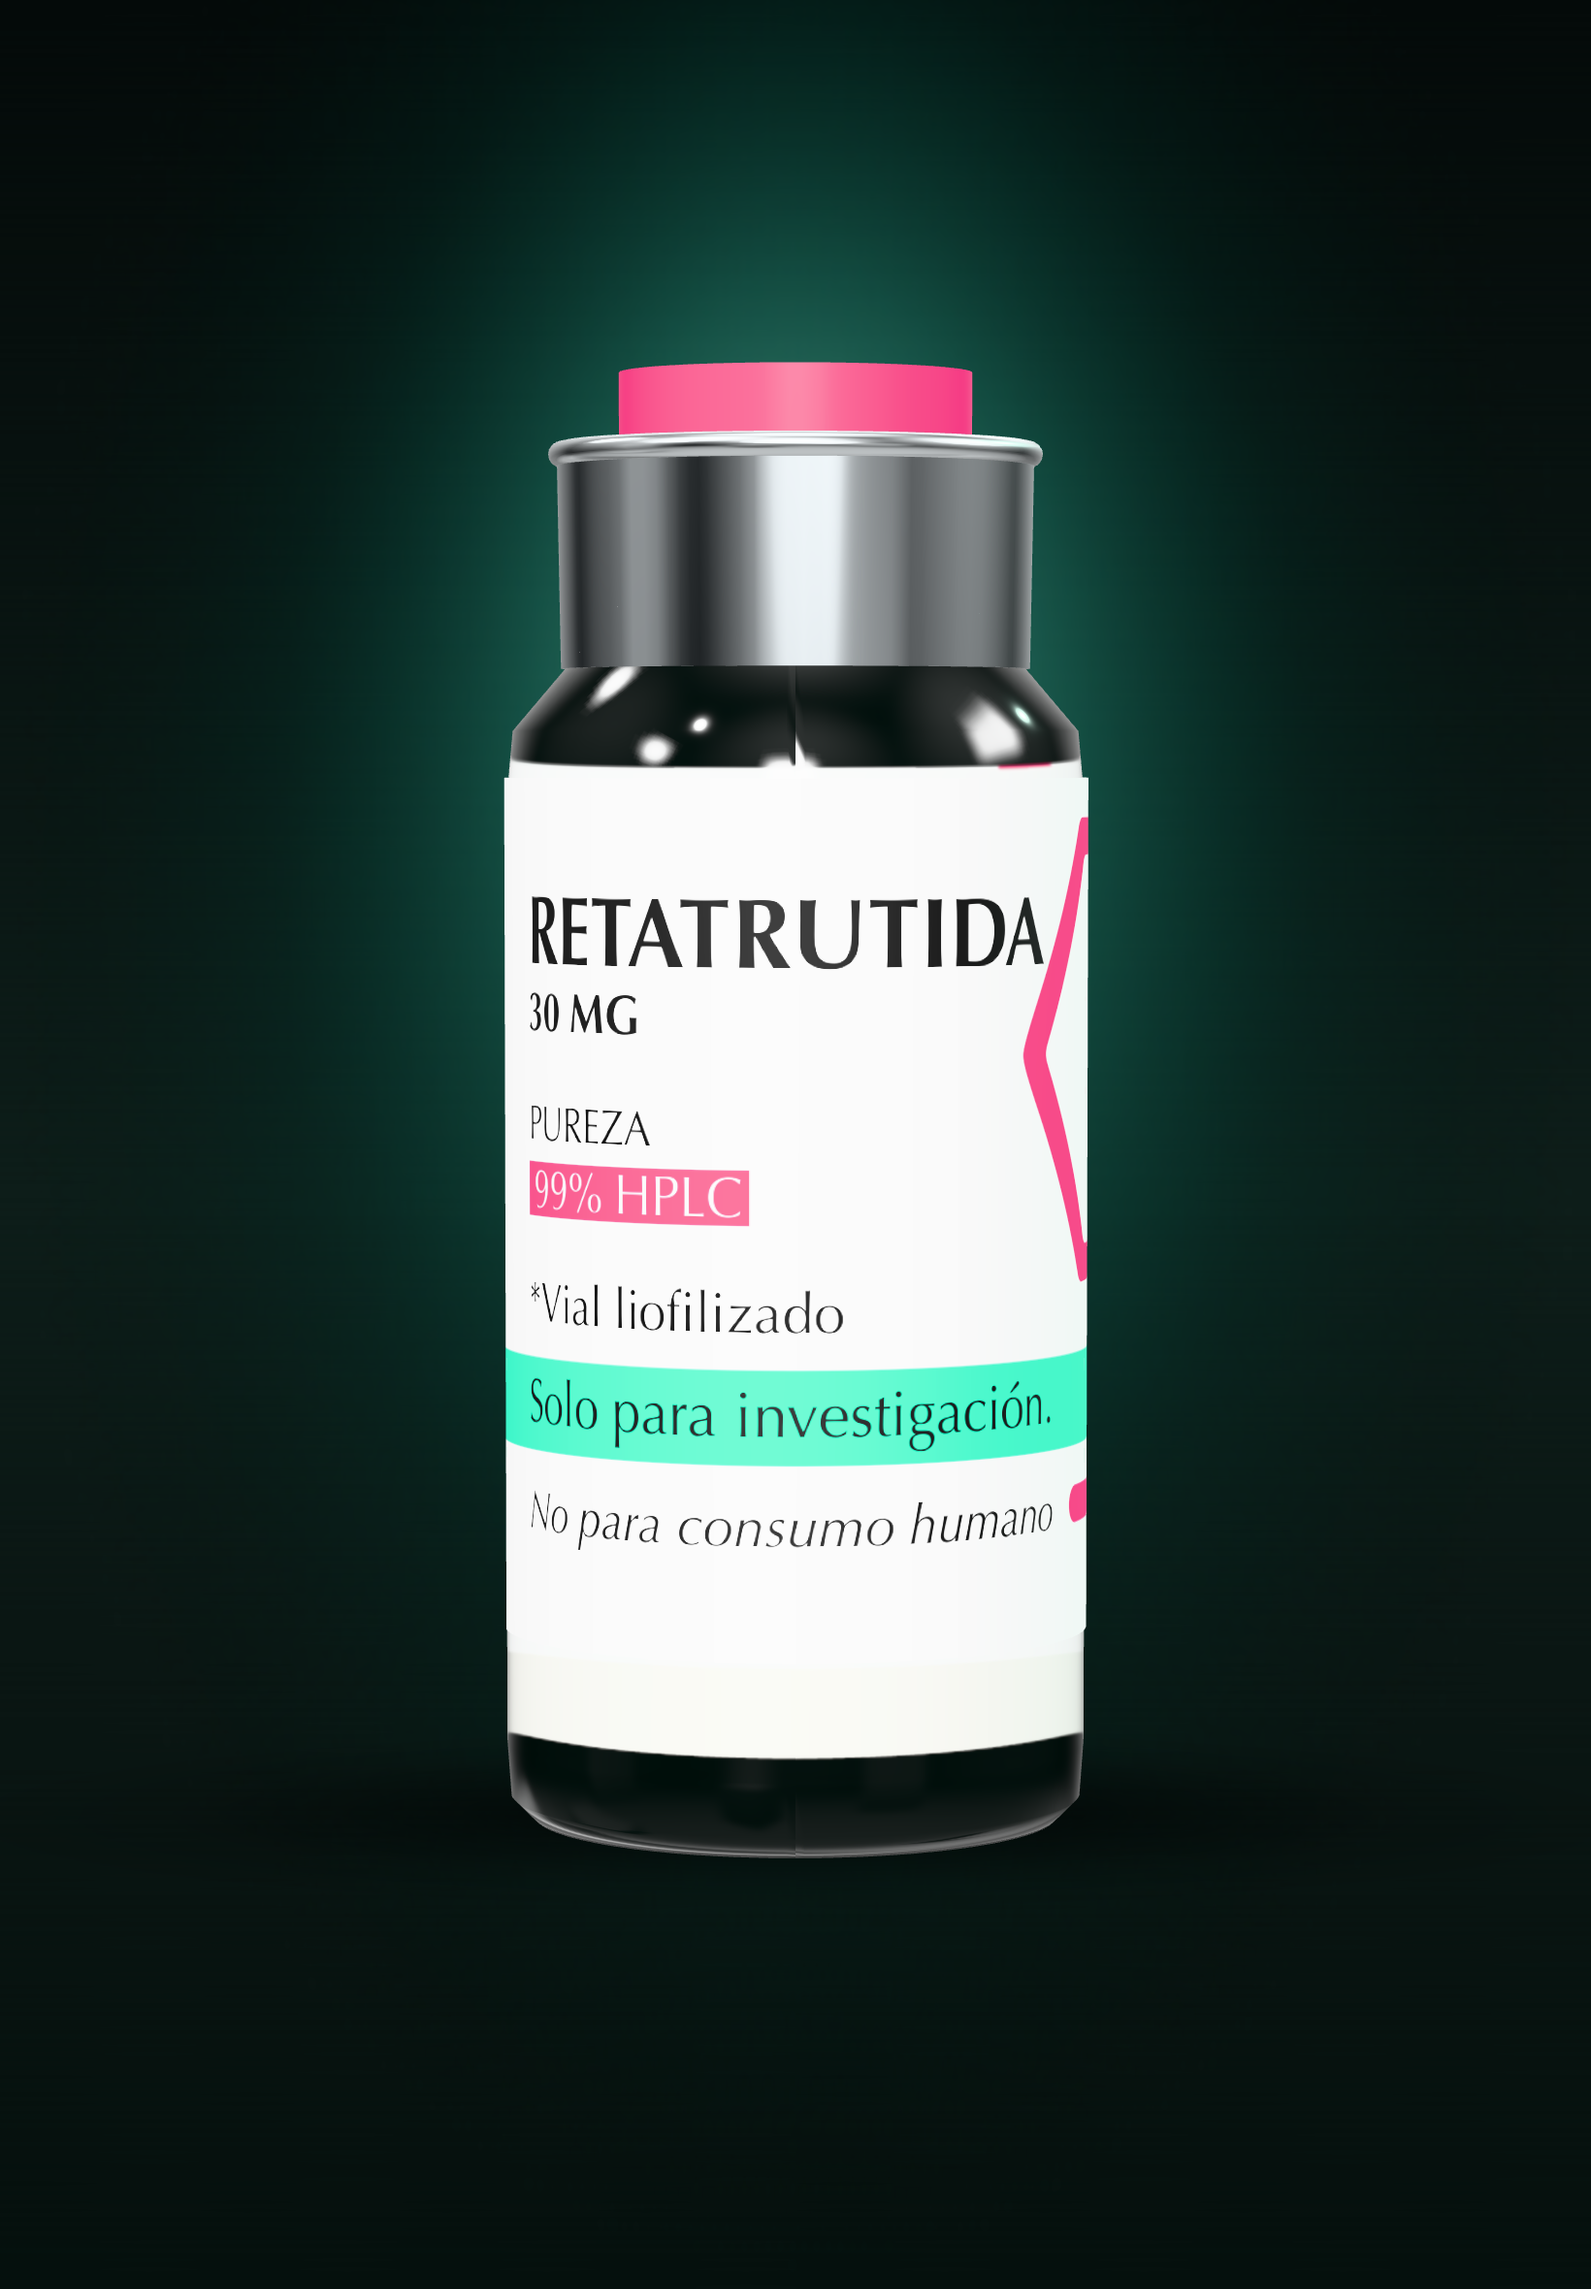
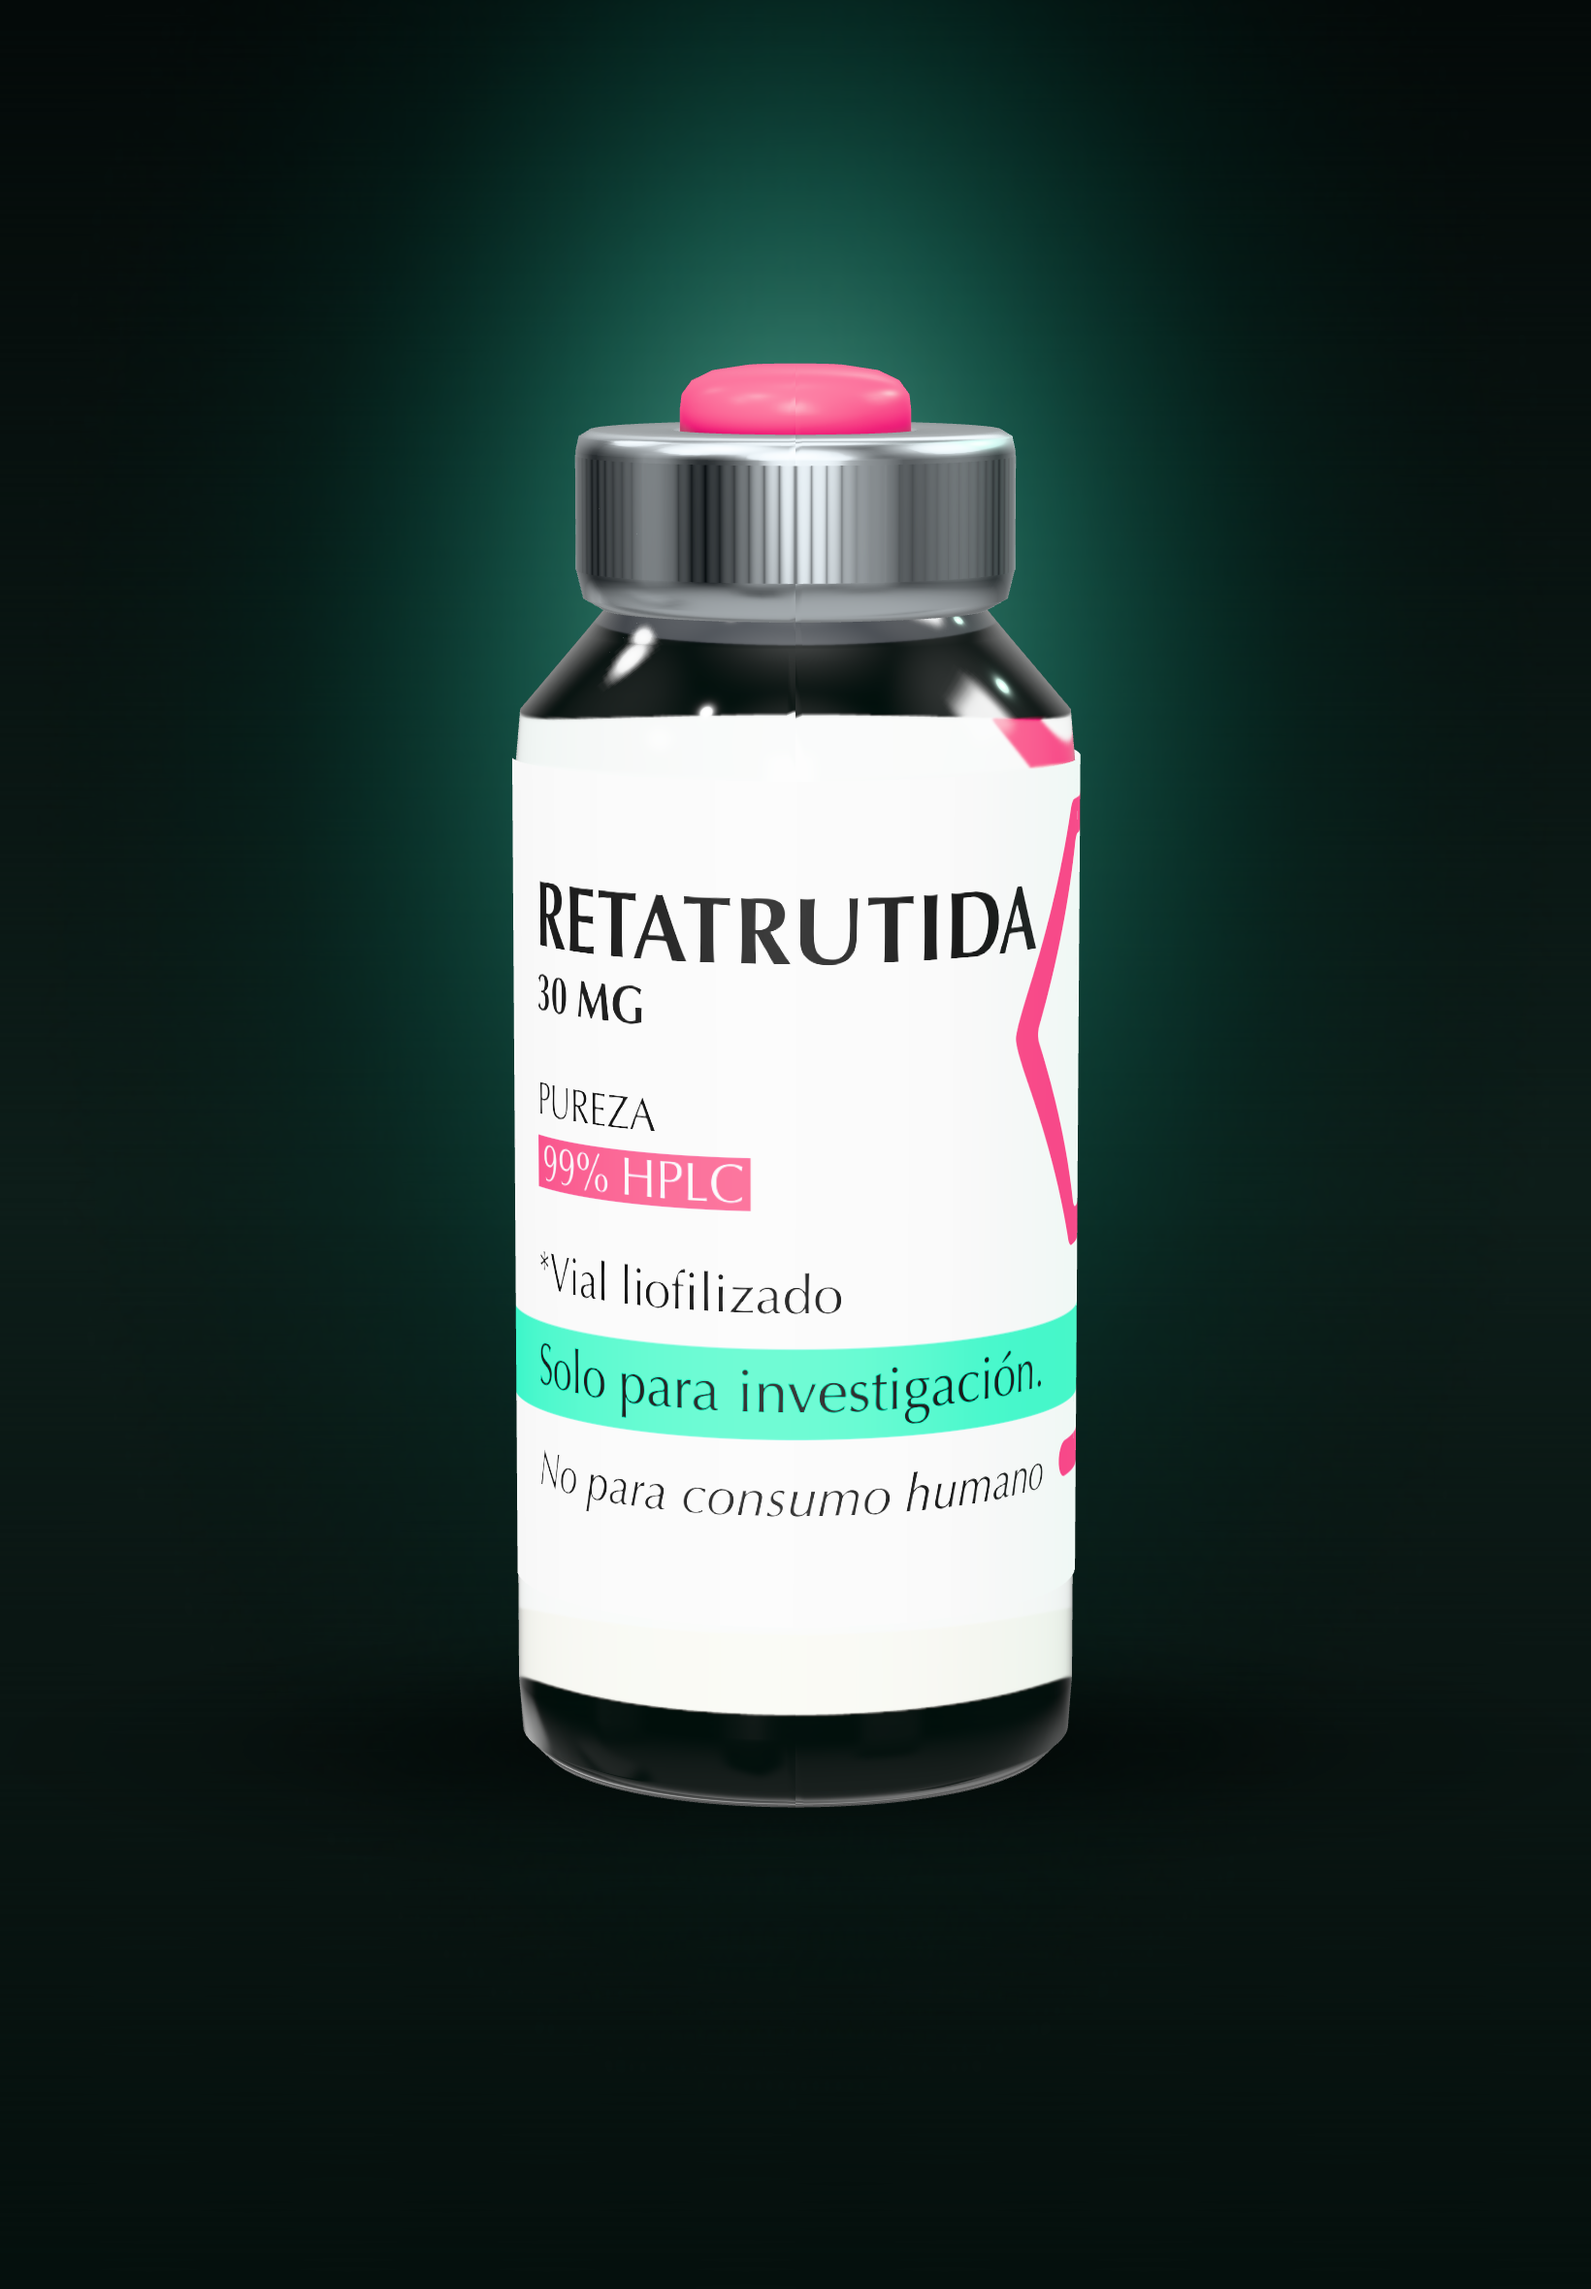
fix(mocks): la tapa del vial tenía la anatomía y el ángulo mal
El flip-off era un disco plano casi tan ancho como el engaste, con un aro
suelto flotando encima: leía como tapa de frasco. Se remodela con la anatomía
real de un sello de 20 mm, torneado con su perfil: corona plana con hueco
central, falda con estrías finas por roughnessMap y rizo por debajo de la
pestaña de vidrio. El botón de plástico pasa a estrecho y abombado, dejando
el anillo de aluminio visible alrededor.

El fallo de fondo no era el modelado sino la cámara: estaba a y=27.5 con la
tapa a y=37.3, o sea por debajo del sello, así que se veía el engaste desde
abajo y el botón quedaba escondido tras el borde. Sube a y=43.

Claude-Session: https://claude.ai/code/session_01WYKnPW9vsfA4iToczreM7S

Changed region(s): [[0.311, 0.1547, 0.6841, 0.8352]]

diff --git a/rediseno/mocks/generar-vial-3d.html b/rediseno/mocks/generar-vial-3d.html
@@ -33,8 +33,8 @@ const pmrem = new THREE.PMREMGenerator(renderer);
 scene.environment = pmrem.fromScene(new RoomEnvironment(), 0.04).texture;
 
 const camera = new THREE.PerspectiveCamera(20, W / H, 1, 1000);
-camera.position.set(0, 27.5, 168);
-camera.lookAt(0, 17.5, 0);
+camera.position.set(0, 43, 172);
+camera.lookAt(0, 16.5, 0);
 
 // ── Perfil del vial 2R: pared de 1.1 mm y fondo de 2.6 mm, torneado con lathe.
 // Modelar la pared interior de verdad es lo que da refracción creíble; con un
@@ -82,26 +82,69 @@ cake.visible = true; scene.add(cake);
 const stop = new THREE.Mesh(
   new THREE.CylinderGeometry(4.2, 4.2, 5.4, 64),
   new THREE.MeshStandardMaterial({ color: 0x35383d, roughness: 0.82, metalness: 0 }));
-stop.position.y = 32.2;
+stop.position.y = 32.4;
 stop.visible = true; scene.add(stop);
 
-// ── Sello de aluminio engastado
-const crimp = new THREE.Mesh(
-  new THREE.CylinderGeometry(6.15, 6.05, 5.6, 128),
-  new THREE.MeshStandardMaterial({ color: 0xcfd5d8, metalness: 1, roughness: 0.23, envMapIntensity: 1.4 }));
-crimp.position.y = 32.6;
-crimp.visible = true; scene.add(crimp);
-const ring = new THREE.Mesh(
-  new THREE.TorusGeometry(6.05, 0.32, 16, 128),
-  new THREE.MeshStandardMaterial({ color: 0xe4e9eb, metalness: 1, roughness: 0.18 }));
-ring.rotation.x = Math.PI / 2; ring.position.y = 35.3; scene.add(ring);
+// ── Sello de aluminio engastado (20 mm), torneado con su perfil real:
+// corona plana con hueco central, falda con estrías y rizo por debajo de la
+// pestaña de vidrio. El disco plano anterior parecía tapa de frasco.
+const RB = 3.05;          // radio del botón flip-off
+const sealPts = [
+  new THREE.Vector2(RB,        35.42),   // borde interior de la corona
+  new THREE.Vector2(RB + 0.22, 35.58),   // labio alrededor del hueco
+  new THREE.Vector2(5.42,      35.58),   // corona plana
+  new THREE.Vector2(5.72,      35.40),   // canto redondeado
+  new THREE.Vector2(5.80,      35.02),
+  new THREE.Vector2(5.80,      31.90),   // falda
+  new THREE.Vector2(5.62,      31.16),   // rizo bajo la pestaña
+  new THREE.Vector2(5.10,      30.86),
+  new THREE.Vector2(4.72,      30.96),
+];
+const sealGeo = new THREE.LatheGeometry(sealPts, 192);
+sealGeo.computeVertexNormals();
+const seal = new THREE.Mesh(sealGeo, new THREE.MeshStandardMaterial({
+  color: 0xc9d0d4, metalness: 1, roughness: 0.26,
+  side: THREE.DoubleSide, envMapIntensity: 1.35,
+}));
+scene.add(seal);
 
-// ── Flip-off magenta de marca
-const flip = new THREE.Mesh(
-  new THREE.CylinderGeometry(4.55, 4.55, 2.2, 96),
-  new THREE.MeshStandardMaterial({ color: 0xff047e, roughness: 0.36, metalness: 0.05, envMapIntensity: 1.1 }));
-flip.position.y = 36.3;
-flip.visible = true; scene.add(flip);
+// Estrías del engaste: finas y solo en la falda, como las deja la crimpadora
+const ridgeCan = document.createElement('canvas'); ridgeCan.width = 1024; ridgeCan.height = 4;
+const rCtx = ridgeCan.getContext('2d');
+for (let i = 0; i < 1024; i++) {
+  const v = 150 + Math.round(105 * Math.pow(Math.abs(Math.sin(i * Math.PI / 11)), 0.6));
+  rCtx.fillStyle = 'rgb(' + v + ',' + v + ',' + v + ')';
+  rCtx.fillRect(i, 0, 1, 4);
+}
+const ridgeTex = new THREE.CanvasTexture(ridgeCan);
+ridgeTex.wrapS = ridgeTex.wrapT = THREE.RepeatWrapping;
+const skirt = new THREE.Mesh(
+  new THREE.CylinderGeometry(5.81, 5.81, 3.0, 192, 1, true),
+  new THREE.MeshStandardMaterial({
+    color: 0xc4cbcf, metalness: 1, roughness: 0.3,
+    roughnessMap: ridgeTex, envMapIntensity: 1.3, side: THREE.DoubleSide,
+  }));
+skirt.position.y = 33.4;
+scene.add(skirt);
+
+// ── Flip-off: botón abombado y estrecho, no un disco del ancho del sello
+const flipPts = [
+  new THREE.Vector2(0.01, 37.30),
+  new THREE.Vector2(1.30, 37.26),
+  new THREE.Vector2(2.20, 37.12),
+  new THREE.Vector2(2.74, 36.86),
+  new THREE.Vector2(3.00, 36.50),
+  new THREE.Vector2(RB,   36.10),
+  new THREE.Vector2(RB,   35.30),
+  new THREE.Vector2(0.01, 35.30),
+];
+const flipGeo = new THREE.LatheGeometry(flipPts, 128);
+flipGeo.computeVertexNormals();
+const flip = new THREE.Mesh(flipGeo, new THREE.MeshStandardMaterial({
+  color: 0xff047e, roughness: 0.34, metalness: 0.0,
+  side: THREE.DoubleSide, envMapIntensity: 1.0,
+}));
+scene.add(flip);
 
 // ── Suelo y luces
 // Sin suelo: un plano iluminado por el entorno sale gris y parte la imagen.

diff --git a/rediseno/mocks/README.md b/rediseno/mocks/README.md
@@ -24,6 +24,19 @@ Lo que hace que lea como vidrio y no como plástico:
 Etiqueta envuelta con `thetaLength = 2pi·43/47.5` y `thetaStart = -0.25·arco`,
 que deja el bloque de texto de frente.
 
+### La tapa
+
+Anatomía real de un sello flip-off, que la primera versión tenía mal: corona
+plana de aluminio con hueco central, falda con estrías finas (por `roughnessMap`,
+no por geometría) y rizo por debajo de la pestaña de vidrio. El botón de plástico
+es **estrecho y abombado** — ocupa poco más de la mitad del diámetro del sello y
+deja un anillo de aluminio visible alrededor. Un disco plano del ancho del sello
+lee como tapa de frasco, no como vial.
+
+**La cámara tiene que ir por encima del sello** (y 43 contra los 37.3 de la tapa).
+Por debajo se ve el engaste desde abajo y el botón desaparece tras el borde: eso,
+y no el modelado, era lo que hacía que la tapa se viera rara.
+
 ### Lo que este render todavía no da
 
 No hay cáusticas, ni profundidad de campo, ni polvo o microrrayas en el vidrio, y
